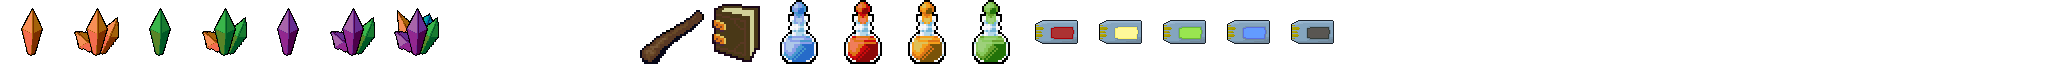
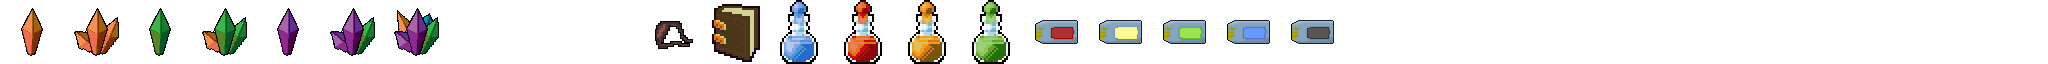
added a bunch of stuff

Changed region(s): [[0.3125, 0.1875, 0.3438, 1.0]]

diff --git a/release/js/atlas.js b/release/js/atlas.js
@@ -78,7 +78,7 @@ atlas.maps[2].music = "tunnels";
 atlas.maps[2].width = 24;
 atlas.maps[2].height = 24;
 atlas.maps[2].background = 5;
-atlas.maps[2].tiles = [["0","0","0","0","0","0","0","0","0","0","0","0","2","2","2","2","2","2","2","2","2","2","2","0"],["0","0","0","0","0","0","0","0","0","0","0","0","2","8","5","5","5","28","5","2","3","2","2","0"],["0","0","0","0","0","0","0","0","0","0","0","0","3","5","5","7","5","28","5","7","5","5","2","0"],["0","0","0","0","0","0","0","0","0","0","0","0","2","5","5","5","5","28","1","5","5","5","2","0"],["0","0","0","0","0","0","0","0","0","0","0","0","2","5","29","7","5","28","5","7","5","5","2","0"],["2","2","2","2","2","2","2","2","2","2","2","2","2","2","5","2","2","28","2","2","5","2","2","2"],["2","5","5","5","5","5","5","5","5","5","5","5","5","5","5","5","2","28","5","7","5","7","5","2"],["2","5","7","5","7","7","5","5","7","7","2","2","2","2","2","2","2","28","5","5","5","5","5","2"],["2","5","7","5","5","5","5","5","5","5","5","5","5","5","5","5","5","28","5","7","7","7","5","2"],["2","5","5","5","5","5","5","5","5","5","5","5","5","5","5","5","5","28","5","5","5","5","5","2"],["2","2","2","2","2","2","2","2","2","2","2","5","2","2","2","2","2","28","5","7","5","7","5","2"],["0","0","0","0","0","0","0","2","5","5","5","5","5","5","5","5","5","28","5","7","5","7","5","2"],["0","0","0","0","0","0","0","2","5","5","5","5","5","5","5","5","5","28","5","7","5","7","5","2"],["0","0","0","0","0","0","0","2","2","5","2","2","2","2","2","5","2","28","5","5","5","5","5","2"],["0","0","0","0","0","0","0","0","2","5","5","5","5","5","7","7","7","28","5","7","7","7","5","2"],["0","0","0","0","0","0","0","0","2","5","5","5","5","5","5","5","5","28","5","5","5","5","5","2"],["0","0","0","0","0","0","0","0","2","2","2","2","5","5","7","5","8","28","5","2","5","2","2","2"],["0","0","0","0","0","0","0","0","0","0","0","2","5","5","5","5","5","28","5","2","5","2","0","0"],["0","0","0","0","0","0","0","0","0","0","0","2","7","5","7","7","7","28","5","2","5","2","0","0"],["0","0","0","0","0","0","0","0","0","0","0","2","5","5","7","5","5","5","5","2","5","2","0","0"],["0","0","0","0","0","0","0","0","0","0","0","2","5","5","7","5","5","28","5","2","5","2","0","0"],["0","0","0","0","0","0","0","0","0","0","0","2","5","5","5","5","5","28","5","2","8","2","0","0"],["0","0","0","0","0","0","0","0","0","0","0","2","2","2","2","2","2","2","2","2","2","2","0","0"],["0","0","0","0","0","0","0","0","0","0","0","0","0","0","0","0","0","0","0","0","0","0","0","0"]];
+atlas.maps[2].tiles = [["0","0","0","0","0","0","0","0","0","0","0","0","2","2","2","2","2","2","2","2","2","2","2","0"],["0","0","0","0","0","0","0","0","0","0","0","0","2","8","5","5","5","28","5","2","3","2","2","0"],["0","0","0","0","0","0","0","0","0","0","0","0","3","5","5","7","5","28","5","7","5","30","2","0"],["0","0","0","0","0","0","0","0","0","0","0","0","2","5","5","5","5","28","1","5","5","5","2","0"],["0","0","0","0","0","0","0","0","0","0","0","0","2","5","29","7","5","28","5","7","5","5","2","0"],["2","2","2","2","2","2","2","2","2","2","2","2","2","2","5","2","2","28","2","2","5","2","2","2"],["2","5","5","5","5","5","5","5","5","5","5","5","5","5","5","5","2","28","5","7","5","7","5","2"],["2","5","7","5","7","7","5","5","7","7","2","2","2","2","2","2","2","28","5","5","5","5","5","2"],["2","5","7","5","5","5","5","5","5","5","5","5","5","5","5","5","5","28","5","7","7","7","5","2"],["2","5","5","5","5","5","5","5","5","5","5","5","5","5","5","5","5","28","5","5","5","5","5","2"],["2","2","2","2","2","2","2","2","2","2","2","5","2","2","2","2","2","28","5","7","5","7","5","2"],["0","0","0","0","0","0","0","2","5","5","5","5","5","5","5","5","5","28","5","7","5","7","5","2"],["0","0","0","0","0","0","0","2","5","5","5","5","5","5","5","5","5","28","5","7","5","7","5","2"],["0","0","0","0","0","0","0","2","2","5","2","2","2","2","2","5","2","28","5","5","5","5","5","2"],["0","0","0","0","0","0","0","0","2","5","5","5","5","5","7","7","7","28","5","7","7","7","5","2"],["0","0","0","0","0","0","0","0","2","5","5","5","5","5","5","5","5","28","5","5","5","5","5","2"],["0","0","0","0","0","0","0","0","2","2","2","2","5","5","7","5","8","28","5","2","5","2","2","2"],["0","0","0","0","0","0","0","0","0","0","0","2","5","5","5","5","5","28","5","2","5","2","0","0"],["0","0","0","0","0","0","0","0","0","0","0","2","7","5","7","7","7","28","5","2","5","2","0","0"],["0","0","0","0","0","0","0","0","0","0","0","2","5","5","7","5","5","5","5","2","5","2","0","0"],["0","0","0","0","0","0","0","0","0","0","0","2","5","5","7","5","5","28","5","2","5","2","0","0"],["0","0","0","0","0","0","0","0","0","0","0","2","5","5","5","5","5","28","5","2","8","2","0","0"],["0","0","0","0","0","0","0","0","0","0","0","2","2","2","2","2","2","2","2","2","2","2","0","0"],["0","0","0","0","0","0","0","0","0","0","0","0","0","0","0","0","0","0","0","0","0","0","0","0"]];
 atlas.maps[2].scripts[0] = {type:"lift", x:20, y:1, floor:2, dest_x:20, dest_y:2};
 atlas.maps[2].scripts[1] = {type:"mod", x:-1, y:-1, dest_x:17, dest_y:3, flag:"l1_boss", tile:5};
 atlas.maps[2].scripts[2] = {type:"exit", x:12, y:2, dest_map:3, dest_x:1, dest_y:4}; //TODO find the right spot
@@ -90,6 +90,7 @@ atlas.maps[2].scripts[7] = {type:"enemy", x:14, y:4, dest_x:14, dest_y:5, enemy_
 atlas.maps[2].scripts[8] = {type:"chest", x:13, y:1, status:"item_l2i1", item:"Red Key", qty:1};
 atlas.maps[2].scripts[9] = {type:"chest", x:20, y:21, status:"item_l2i2", item:"Sling", qty:1};
 atlas.maps[2].scripts[10] = {type:"chest", x:16, y:16, status:"item_l2i3", item:"Stamina Dust", qty:1};
+atlas.maps[2].scripts[11] = {type:"shop", x:21, y:2, shop_id:11, dest_x:21, dest_y:3};
 atlas.maps[2].enemies = [ENEMY_RAT, ENEMY_RAT, ENEMY_RAT, ENEMY_SNAKE, ENEMY_SNAKE, ENEMY_SNAKE, ENEMY_CRIMINAL, ENEMY_CRIMINAL, ENEMY_ZOMBIE];
 
 atlas.maps[3].name = "Karpos Point";

diff --git a/release/js/shop.js b/release/js/shop.js
@@ -80,30 +80,30 @@ shop[10].item[1] = {type:SHOP_MESSAGE, msg1:"I ain't got no", msg2:"fucking smac
 shop[10].background = 2;
 
 //additional messages
-shop[11].name = "msg01";
-shop[11].item[0] = {type:SHOP_MESSAGE, msg1:"Aw, fuck, man!", msg2:""};
-shop[11].item[1] = {type:SHOP_MESSAGE, msg1:"I ain't got no", msg2:"fucking smack!"};
-shop[11].background = 2;
+shop[11].name = "Illisia";
+shop[11].item[0] = {type:SHOP_MESSAGE, msg1:"There are strange", msg2:"keys hidden here"};
+shop[11].item[1] = {type:SHOP_MESSAGE, msg1:"These make the", msg2:"lift thing work"};
+shop[11].background = 3;
 
 shop[12].name = "msg02";
 shop[12].item[0] = {type:SHOP_MESSAGE, msg1:"Aw, fuck, man!", msg2:""};
 shop[12].item[1] = {type:SHOP_MESSAGE, msg1:"I ain't got no", msg2:"fucking smack!"};
-shop[12].background = 2;
+shop[12].background = 3;
 
 shop[13].name = "msg03";
 shop[13].item[0] = {type:SHOP_MESSAGE, msg1:"Aw, fuck, man!", msg2:""};
 shop[13].item[1] = {type:SHOP_MESSAGE, msg1:"I ain't got no", msg2:"fucking smack!"};
-shop[13].background = 2;
+shop[13].background = 3;
 
 shop[14].name = "msg04";
 shop[14].item[0] = {type:SHOP_MESSAGE, msg1:"Aw, fuck, man!", msg2:""};
 shop[14].item[1] = {type:SHOP_MESSAGE, msg1:"I ain't got no", msg2:"fucking smack!"};
-shop[14].background = 2;
+shop[14].background = 3;
 
 shop[15].name = "msg05";
 shop[15].item[0] = {type:SHOP_MESSAGE, msg1:"Aw, fuck, man!", msg2:""};
 shop[15].item[1] = {type:SHOP_MESSAGE, msg1:"I ain't got no", msg2:"fucking smack!"};
-shop[15].background = 2;
+shop[15].background = 3;
 
 //---- Set choice options for shops --------
 

diff --git a/release/js/tileset.js b/release/js/tileset.js
@@ -7,7 +7,7 @@ TileSet class.
 //this is not a class. JS doesn't have classes (yet), nor is this written like a JS-fake-class
 //I might redo this thing in TypeScript some day
 
-var TILE_COUNT = 29;
+var TILE_COUNT = 30;
 var BACKGROUND_COUNT = 8;
 
 var tileset = new Object();
@@ -235,6 +235,11 @@ function tileset_init() {
   tileset.tile_img[29].onload = function() {tileset_onload();};
   tileset.walkable[29] = true;
   tileset.mapicon[29] = 3;
+  
+  tileset.tile_img[30].src = "images/tiles/info_level1.png";
+  tileset.tile_img[30].onload = function() {tileset_onload();};
+  tileset.walkable[30] = true;
+  tileset.mapicon[30] = 3;
   
 }
 
